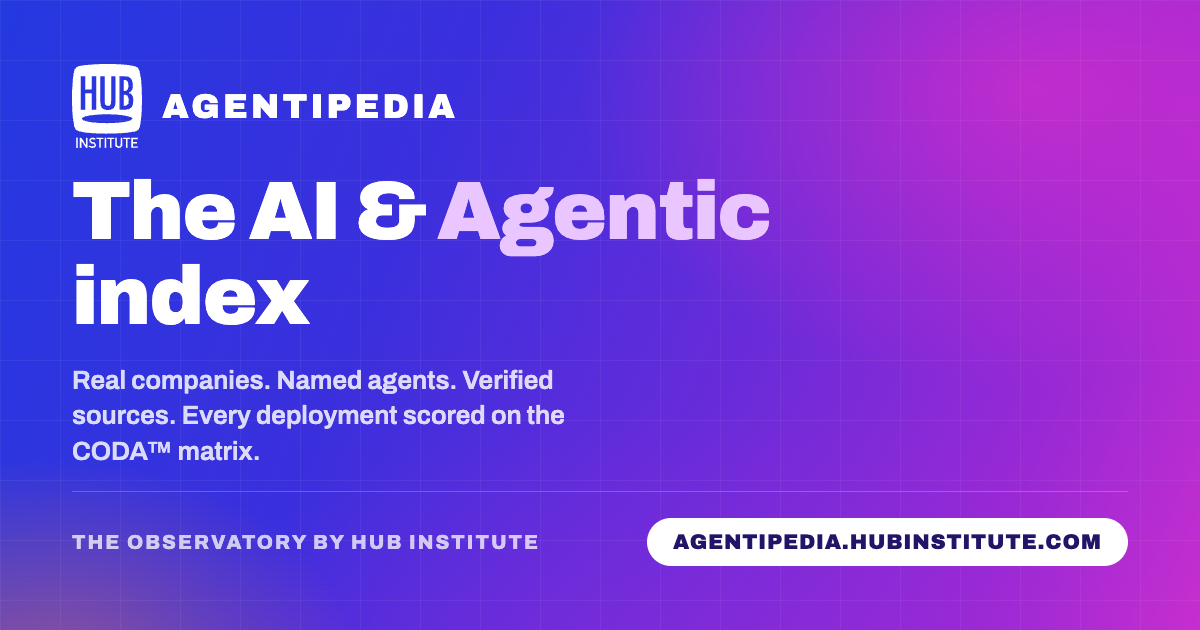
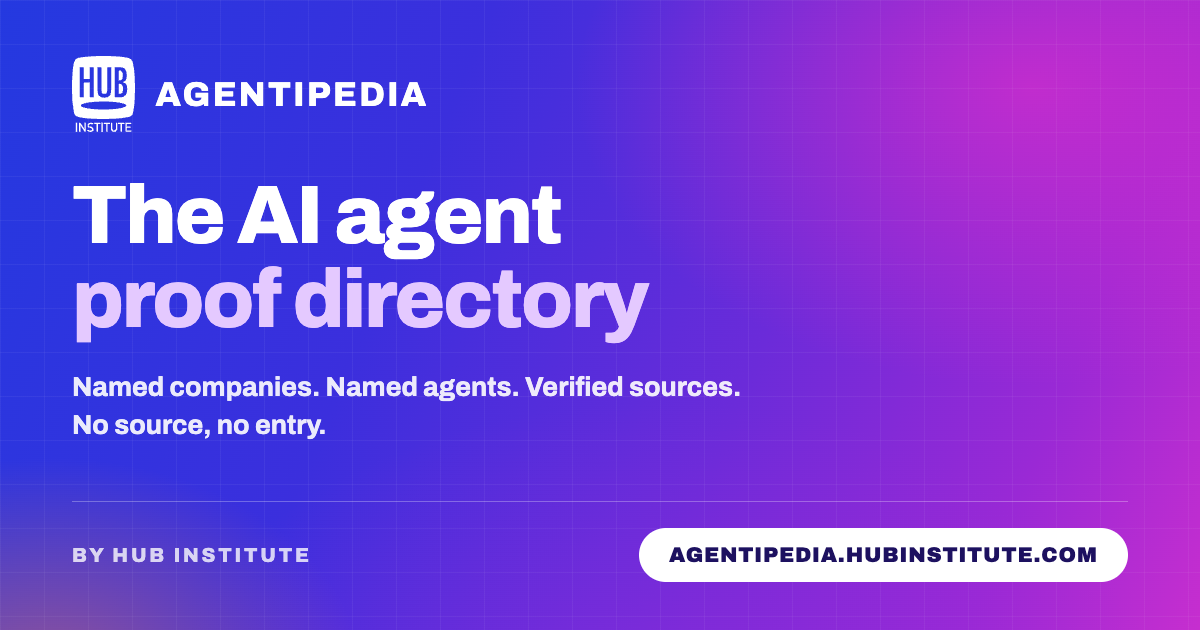
Redraw the share card as the proof directory
The home page became a proof directory, the card that goes out on LinkedIn
still said "The AI & Agentic index". It now reads "The AI agent proof
directory", with the promise the site actually makes underneath: named
companies, named agents, verified sources, no source no entry.

Same gradient, same faint grid and same Archivo as the hero, so a shared link
looks like the page it opens. The source that renders it is kept in
design/opengraph-card.html rather than being thrown away, since the previous
card was a PNG nobody could edit. The alt text follows.

diff --git a/design/opengraph-card.html b/design/opengraph-card.html
@@ -1,0 +1,56 @@
+<!doctype html>
+<html lang="en">
+<head>
+<meta charset="utf-8" />
+<link rel="preconnect" href="https://fonts.googleapis.com" />
+<link rel="preconnect" href="https://fonts.gstatic.com" crossorigin />
+<link href="https://fonts.googleapis.com/css2?family=Archivo:wght@400;600;700;800;900&display=swap" rel="stylesheet" />
+<style>
+  * { margin: 0; padding: 0; box-sizing: border-box; }
+  html, body { width: 1200px; height: 630px; }
+  body {
+    font-family: Archivo, system-ui, sans-serif;
+    color: #fff;
+    position: relative;
+    overflow: hidden;
+    background:
+      radial-gradient(46rem 30rem at 86% 14%, rgb(230 46 200 / 0.62), transparent 62%),
+      radial-gradient(34rem 24rem at 4% 108%, rgb(242 118 79 / 0.5), transparent 58%),
+      radial-gradient(50rem 34rem at 55% 120%, rgb(150 43 217 / 0.55), transparent 65%),
+      linear-gradient(112deg, #2439e0 0%, #3b2fdd 34%, #6b2bd9 62%, #9a29d5 84%, #c62ecf 100%);
+  }
+  .grid {
+    position: absolute; inset: 0;
+    background-image:
+      linear-gradient(to right, rgb(255 255 255 / 0.05) 1px, transparent 1px),
+      linear-gradient(to bottom, rgb(255 255 255 / 0.05) 1px, transparent 1px);
+    background-size: 44px 44px;
+  }
+  .wrap { position: relative; height: 100%; padding: 56px 72px 48px; display: flex; flex-direction: column; }
+  .lockup { display: flex; align-items: center; gap: 20px; }
+  .lockup img { height: 76px; width: auto; display: block; }
+  .lockup span { font-weight: 800; font-size: 34px; letter-spacing: 0.07em; text-transform: uppercase; }
+  h1 { margin-top: 42px; font-weight: 800; font-size: 82px; line-height: 1.02; letter-spacing: -0.025em; max-width: 1000px; }
+  h1 em { font-style: normal; color: #e4c9ff; }
+  p.sub { margin-top: 28px; font-weight: 700; font-size: 27px; line-height: 1.38; color: rgb(255 255 255 / 0.9); max-width: 740px; }
+  .foot { margin-top: auto; padding-top: 26px; border-top: 1px solid rgb(255 255 255 / 0.28); display: flex; align-items: center; justify-content: space-between; }
+  .foot .by { font-weight: 800; font-size: 20px; letter-spacing: 0.14em; text-transform: uppercase; color: rgb(255 255 255 / 0.78); }
+  .pill { background: #fff; color: #1d1160; font-weight: 900; font-size: 21px; letter-spacing: 0.04em; text-transform: uppercase; padding: 16px 30px; border-radius: 999px; }
+</style>
+</head>
+<body>
+  <div class="grid"></div>
+  <div class="wrap">
+    <div class="lockup">
+      <img src="hub-institute-logo-white.svg" alt="" />
+      <span>Agentipedia</span>
+    </div>
+    <h1>The AI agent<br /><em>proof directory</em></h1>
+    <p class="sub">Named companies. Named agents. Verified sources.<br />No source, no entry.</p>
+    <div class="foot">
+      <div class="by">By HUB Institute</div>
+      <div class="pill">agentipedia.hubinstitute.com</div>
+    </div>
+  </div>
+</body>
+</html>

diff --git a/src/lib/site.ts b/src/lib/site.ts
@@ -10,7 +10,7 @@ export const OG_IMAGE = {
   url: "/opengraph-image.png",
   width: 1200,
   height: 630,
-  alt: "Agentipedia by HUB Institute, the AI & Agentic index",
+  alt: "Agentipedia by HUB Institute, the AI agent proof directory",
 } as const;
 
 export const PUBLISHER = {
